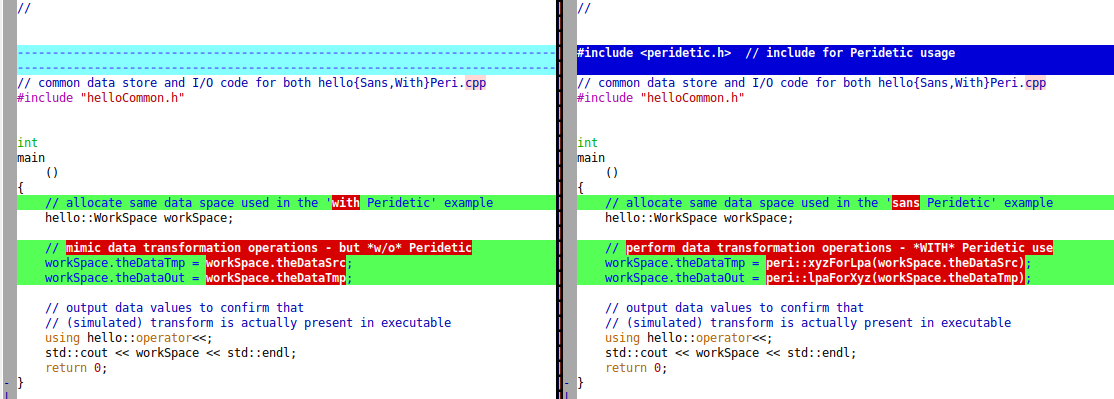
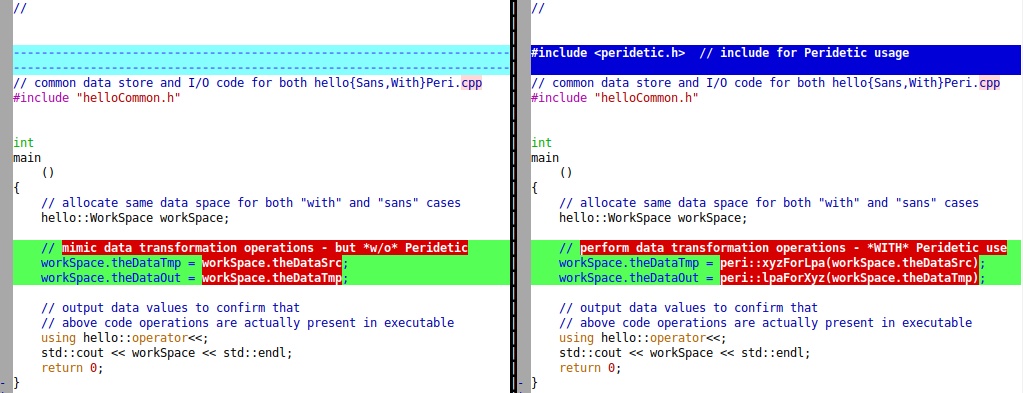
periUse/hello* improved/corrected code comments (appearing in image)

Changed region(s): [[0.0, 0.0, 1.0, 1.0], [0.5455, 0.7634, 0.9394, 0.9466], [0.5455, 0.4275, 0.5758, 0.458]]

diff --git a/periUse/helloWithPeri.cpp b/periUse/helloWithPeri.cpp
@@ -37,7 +37,7 @@ int
 main
 	()
 {
-	// allocate same data space used in the 'sans Peridetic' example
+	// allocate same data space for both "with" and "sans" cases
 	hello::WorkSpace workSpace;
 
 	// perform data transformation operations - *WITH* Peridetic use
@@ -45,7 +45,7 @@ main
 	workSpace.theDataOut = peri::lpaForXyz(workSpace.theDataTmp);
 
 	// output data values to confirm that
-	// (simulated) transform is actually present in executable
+	// above code operations are actually present in executable
 	using hello::operator<<;
 	std::cout << workSpace << std::endl;
 	return 0;

diff --git a/periUse/helloSansPeri.cpp b/periUse/helloSansPeri.cpp
@@ -35,7 +35,7 @@ int
 main
 	()
 {
-	// allocate same data space used in the 'with Peridetic' example
+	// allocate same data space for both "with" and "sans" cases
 	hello::WorkSpace workSpace;
 
 	// mimic data transformation operations - but *w/o* Peridetic
@@ -43,7 +43,7 @@ main
 	workSpace.theDataOut = workSpace.theDataTmp;
 
 	// output data values to confirm that
-	// (simulated) transform is actually present in executable
+	// above code operations are actually present in executable
 	using hello::operator<<;
 	std::cout << workSpace << std::endl;
 	return 0;
